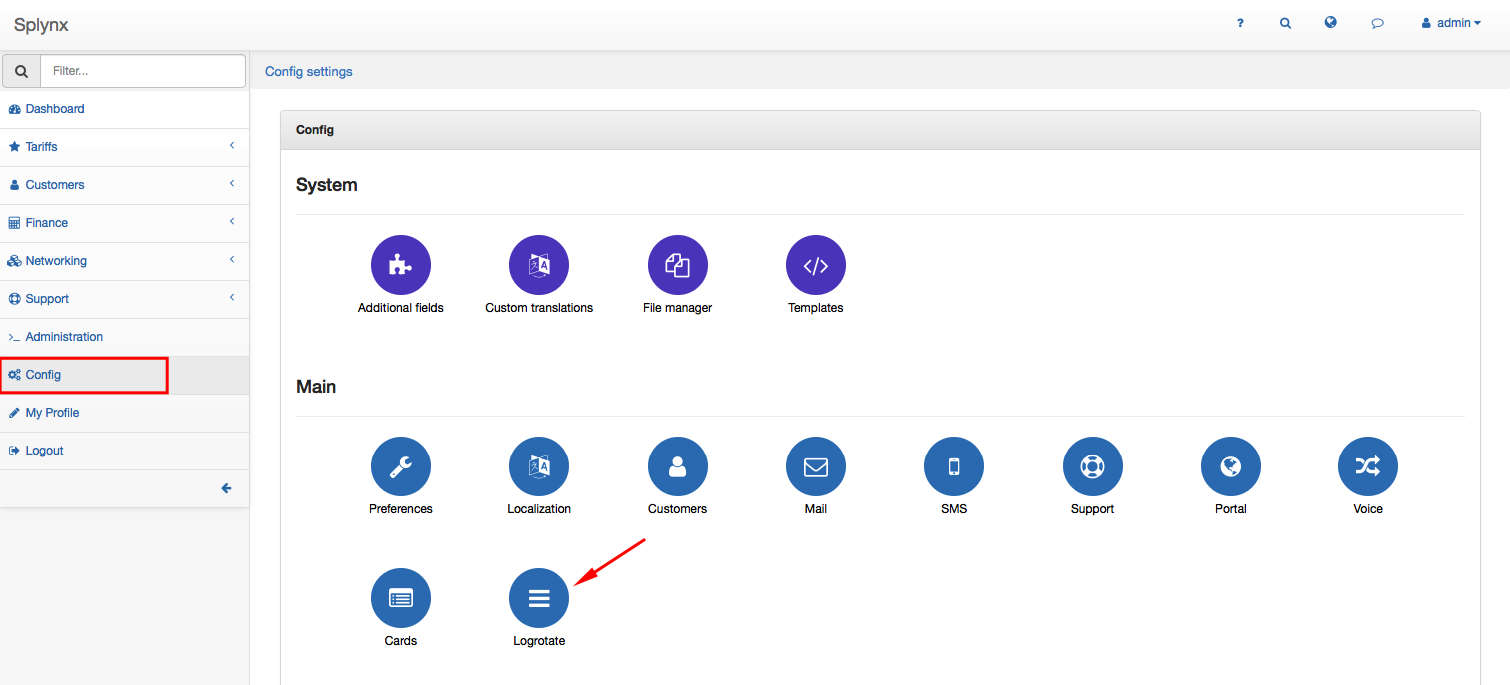
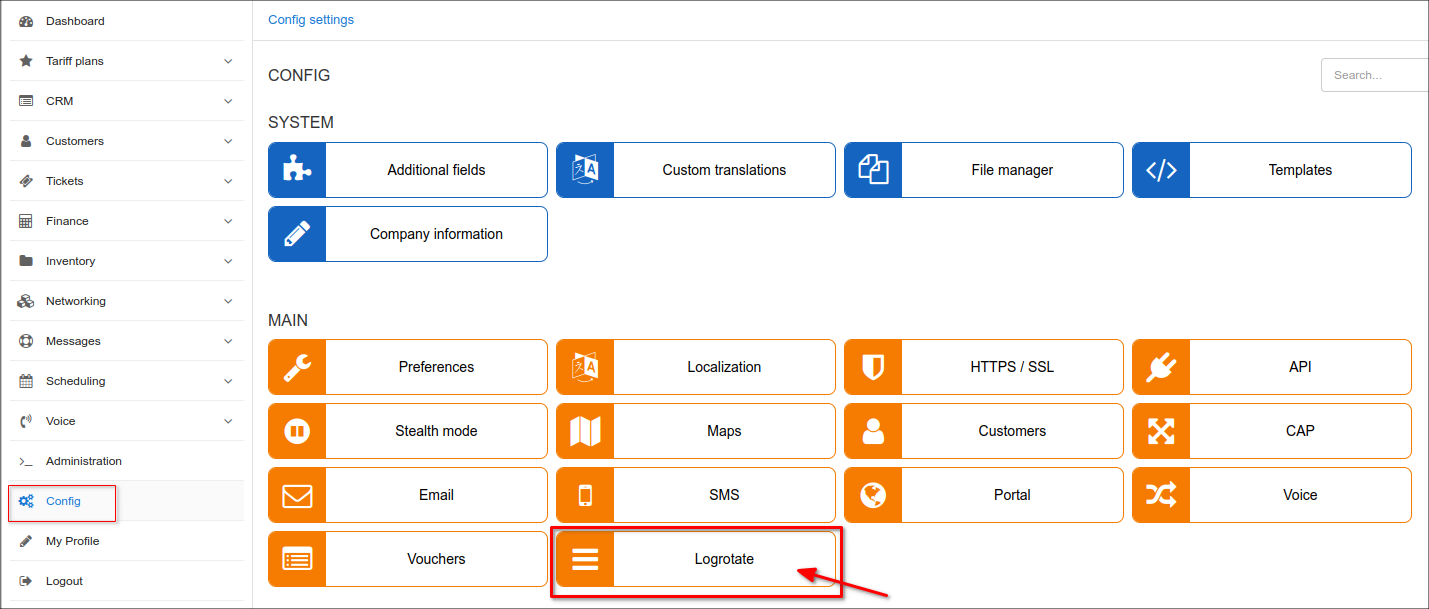
logrotate

diff --git a/files/en/configuration/main_configuration/logrotate/logrotate.md b/files/en/configuration/main_configuration/logrotate/logrotate.md
@@ -11,9 +11,15 @@ Here you will be able to select a period of time for storing the following logs 
 ##### Logrotate
 * *Store admin logs*
 * *Store API logs*
+* *Store Internal logs*
+* *Store Portal logs*
 * *Store customer statistics*
-* *Store cards statistics*
+* *Store vouchers statistics*
+* *Store inactive vouchers rrd files*
+* *Store CDR files*
+* *Store background tasks logs*
+* *Store background task result files*
 
-The period of time for storing logs can be 1 month, 6 months, 1 year, 2 years or 3 years. It is also possible to choose the option "Don't delete".
+The period of time for storing logs can be from 1 month to 6 years. It is also possible to choose the option "Don't delete".
 
 ![](period.png)
